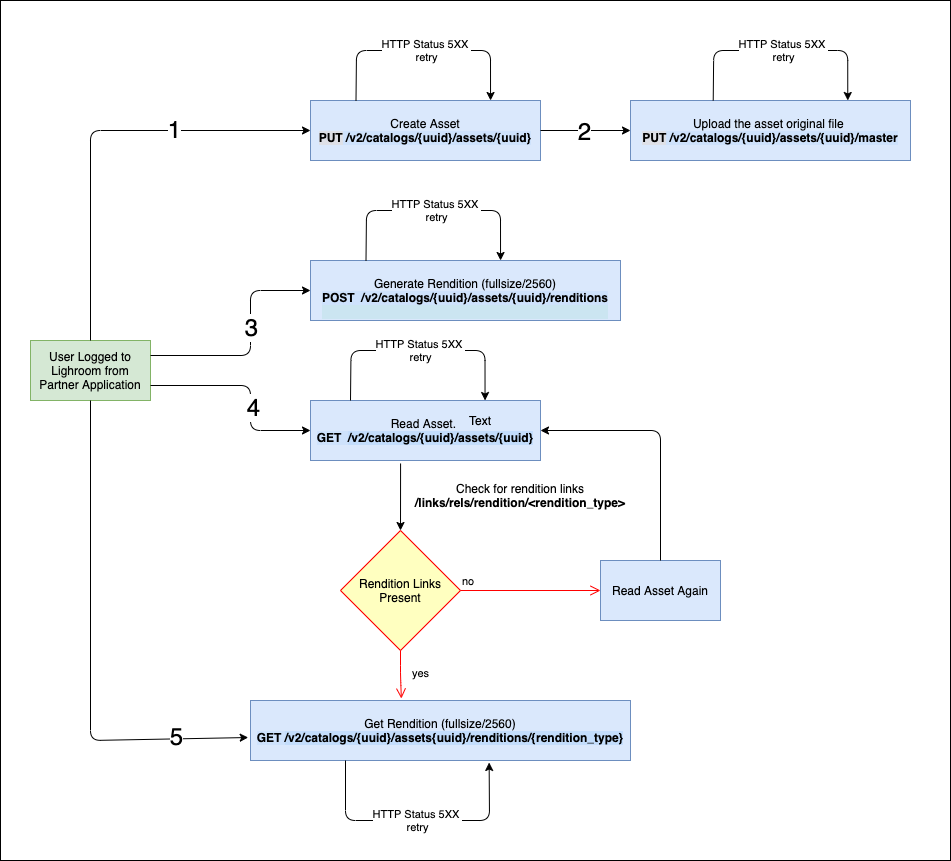
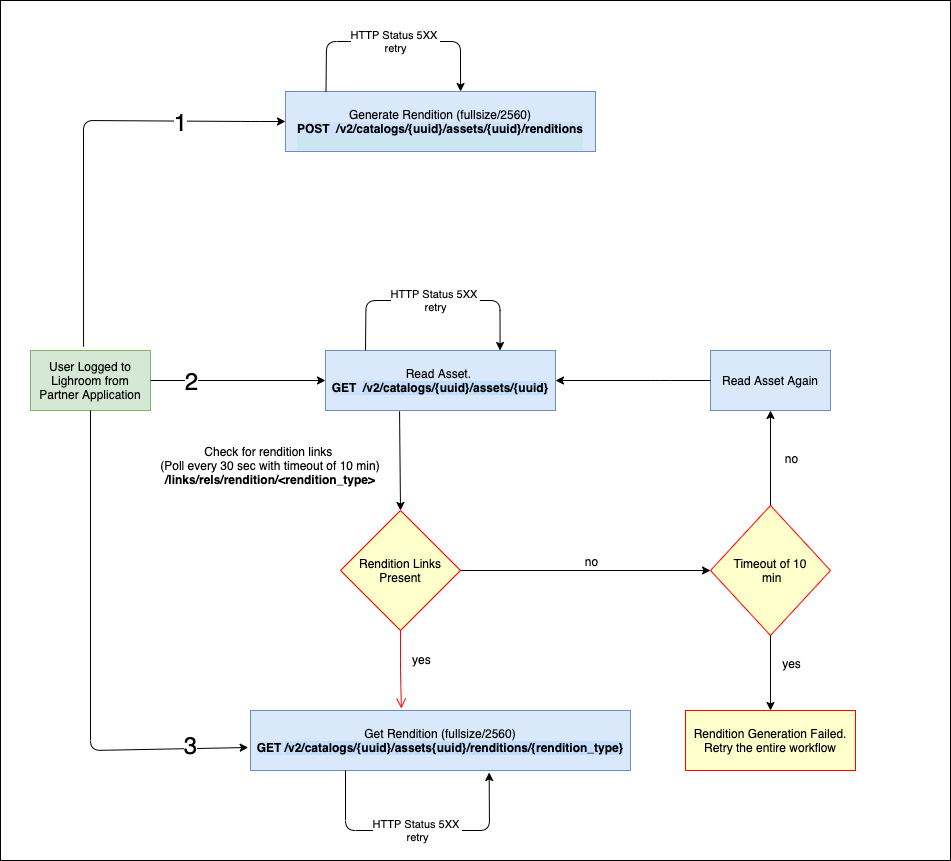
Adding Developer guidelines

diff --git a/quickstart/renditions.md b/quickstart/renditions.md
@@ -1,59 +1,33 @@
-## Generate Renditions (Only Fullsize/2560) for Print Workflow 
+## Read and Generate Renditions
 
-Generate renditions for an original file asynchronously. Allowed rendition types are fullsize and 2560. Generated rendition will be deleted after 1 day automatically.
+##Renditions
+Each photo asset has a set of JPEGs intended for application display of the latest visual representation of the asset (either edited or original uploaded state)
+
+##Details of Renditions
+
+* Creation - Upon uploading a photo, the following resources will be created (JPEG format)
+    * thumbnail2x (320 pixels constraint on either edge) 
+    * 640 (640 pixels on long edge)
+    * 1280 (1280 pixels on long edge) 
+    * 2048 (2048 pixels on long edge) 
+    
+* Edit - Upon editing a photo, the following resources will be newly created with all edits applied
+    * thumbnail2x (320 pixels constraint on either edge) 
+    * 640 (640 pixels on long edge) 
+    * 1280 (1280 pixels on long edge) 
+    * 2048 (2048 pixels on long edge) 
+    
+For best performance, use the smallest size possible for all application scrolling case 
 
 
-##Workflow to generate renditions
+##Workflow to generate renditions for print workflow
 
-_STEP 1_: Create an asset
+Generate renditions for an original file asynchronously. Allowed rendition types are fullsize and 2560. Generated rendition will be deleted after 1 day automatically. Both these renditions must always be requested on demand.  First check to see if one is available, and if not create it. These renditions are not available with basic API access. Should your application require this capability, you must contact Adobe (lightroomcontact@adobe.com) and describe your needs. Here are the details of fullsize and 2560
+- Fullsize - size of original with edits, constrained by any applied crops.
+- 2560 - 2560 pixels on long edge 
 
-```
-PUT /v2/catalogs/{catalog_id}/assets/{asset_id} HTTP/1.1 
-Authorization: {auth_token}
-Content-Type: application/json
-Content-Length: {xsd:nonNegativeInteger}
-If-None-Match: {xsd:string}
-{
-	"subtype": "{asset_subtype}",
-	"payload": {
-		"captureDate": "0000-00-00T00:00:00",
-		"importSource": {
-			"fileName": "{file_name}",
-			"importedOnDevice": "{import_device_name}",
-			"importedBy": "{import_account_id}",
-			"importTimestamp": "{import_time}"
-		}
-	}
-}
-```
 
-Sample success response:
-
-```
-HTTP/1.1 201 
-CreatedContent-Length: 0
-Location: {xsd:anyURI}
-```
-
-_STEP 2_: Upload original for an asset.
-
-```
-PUT /v2/catalogs/{catalog_id}/assets/{asset_id}/master HTTP/1.1
-Authorization: {auth_token}
-Content-Length: {xsd:nonNegativeInteger}
-Content-Range: {xsd:string}
-Content-Type: {xsd:string}
-```
-
-Sample success response:
-
-```
-HTTP/1.1 201 
-CreatedContent-Length: 0
-Location: {xsd:anyURI}
-```
-
-_STEP 3_: Generate Renditions for an asset asynchronously. Allowed rendition types are fullsize and 2560
+_STEP 1_: Generate Renditions for an asset asynchronously.
 
 ```
 POST /v2/catalogs/{catalog_id}/assets/{asset_id}/renditions HTTP/1.1
@@ -67,7 +41,7 @@ Sample success response:
 HTTP/1.1 202
 ```
 
-_STEP 4_: Read asset. Check for rendition links (/links/rels/rendition/<rendition_type>) in the asset response. Keep reading asset with some delay till renditions links are present. 
+_STEP 2_: Read asset. Check for rendition links (/links/rels/rendition/<rendition_type>) in the asset response. As creation is asynchronous, please poll every 30 seconds until the rendition is available with a timeout of 10 min. If renditions are not genearted within 10 min then probably the operations has failed. You need to retry from Step 1 in that case. Contact us if the problem persists. Read the Usage Guidelines at the end of this page to know the details of the backoff.
 
 ```
 GET /v2/catalogs/{catalog_id}/assets/{asset_id} HTTP/1.1
@@ -80,7 +54,7 @@ Sample success response:
 HTTP/1.1 200
 ```
 
-_STEP 5_: Once the rendition links (/links/rels/rendition/<rendition_type>) are populated in the asset response, then that means that rendition has been generated correctly. Now call the read rendition api to get the rendition. 
+_STEP _3: Once the rendition links (/links/rels/rendition/<rendition_type>) are populated in the asset response, then that means that rendition has been generated correctly. Now call the read rendition api to get the rendition. 
 
 ```
 GET /v2/catalogs/{catalog_id}/assets/{asset_id}/renditions/<rendition_type> HTTP/1.1
@@ -93,7 +67,9 @@ Sample success response:
 HTTP/1.1 200
 ```
 
+NOTE: Refer to the API documentation for further information about above listed APIs.
+
 ### Generate Renditions diagrams
 ![Generate Renditions for Lightroom Assets](../docs/images/PrintWorkflow.png)
 
-NOTE: Refer to the API documentation for further information about above listed APIs.
+

diff --git a/quickstart/developer.md b/quickstart/developer.md
@@ -1,0 +1,45 @@
+## Developer Guidelines
+
+###Be respectful of system resource utilization 
+
+- Access resources only once per session and make use of short-lived local cache 
+
+- Only retrieve resources with a high likelihood of immediate user access 
+
+- Limit look ahead to a reasonable number of pages 
+
+- Constrain the size of resources used in fast scrolls to thumbnails 
+
+- Access smaller resources rather than doing local downsizing 
+
+- Limit polling to resources immediately required only 
+
+- Employ a managed local cache to avoid retrieving the same rendition multiple times, but be aware that renditions can change 
+
+- Avoid retrieving and caching unneeded resources 
+
+###Store only supported file types and valid files in Lightroom 
+
+- Failure to create thumbnails or import a file through a Lightroom application are both indications a given file is not supported 
+
+- Invalid or unsupported files may be deleted  
+
+###Limit retries 
+
+- Responses with a 500 may indicate a temporary error condition and should be retried, after backing off. 
+
+- Retries should be limited - 3  
+
+- See https://status.adobe.com/ for system status 
+
+- Contact Adobe should 500 errors persist 
+
+- Other http errors should only be retried as guided in the documentation 
+
+###Use the documentation 
+
+- Undocumented features and functionality may cease to work without notice in a future release. 
+
+- Please discuss any additional API or data needs with Adobe 
+
+Adobe reserves the right to avoid abuse of system resources. Failure to follow this guidance may result in a warning and possible revocation of your license keys 

diff --git a/quickstart/oauth.md b/quickstart/oauth.md
@@ -8,6 +8,8 @@ The OAuth workflow is described in detail in the [Adobe IMS Authentication and A
 
 Partner applications must include the `lr_partner_apis` scope (along with the standard `openid` and `AdobeID` scopes) to access the Lightroom Services.
 
+To allow renew of refresh token, additional setup is needed on the API key. Should your application require this capability, you must contact Adobe (need info from Drew) and describe your needs. 
+
 ### Authentication Sample Code
 
 Adobe I/O provides two [OAuth samples](https://github.com/AdobeDocs/adobeio-auth/blob/master/OAuth/samples/samples.md) on GitHub for the authentication workflow, one in Node.js and one in Python.

diff --git a/quickstart/branding.md b/quickstart/branding.md
@@ -1,0 +1,8 @@
+##Branding Guidelines
+
+
+- Adhere to all trademark guidelines as noted here: https://www.adobe.com/legal/permissions/trademarks.html 
+
+- For Lightroom, the first and most prominent reference should utilize the full product name – “Adobe Photoshop Lightroom” or “Adobe Photoshop Lightroom Classic”, depending on the product – after which just “Lightroom” or “Lightroom Classic” may be used 
+
+- When referring to photos in Lightroom cloud storage, use the Lightroom branding and do not use the Creative Cloud branding 
